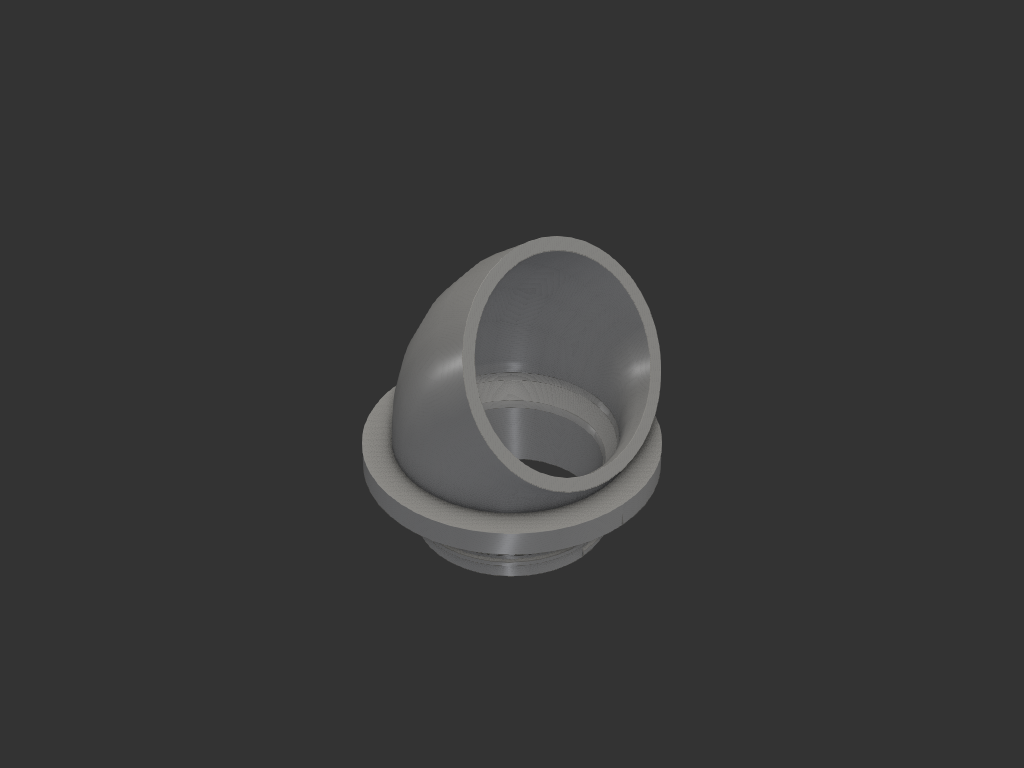
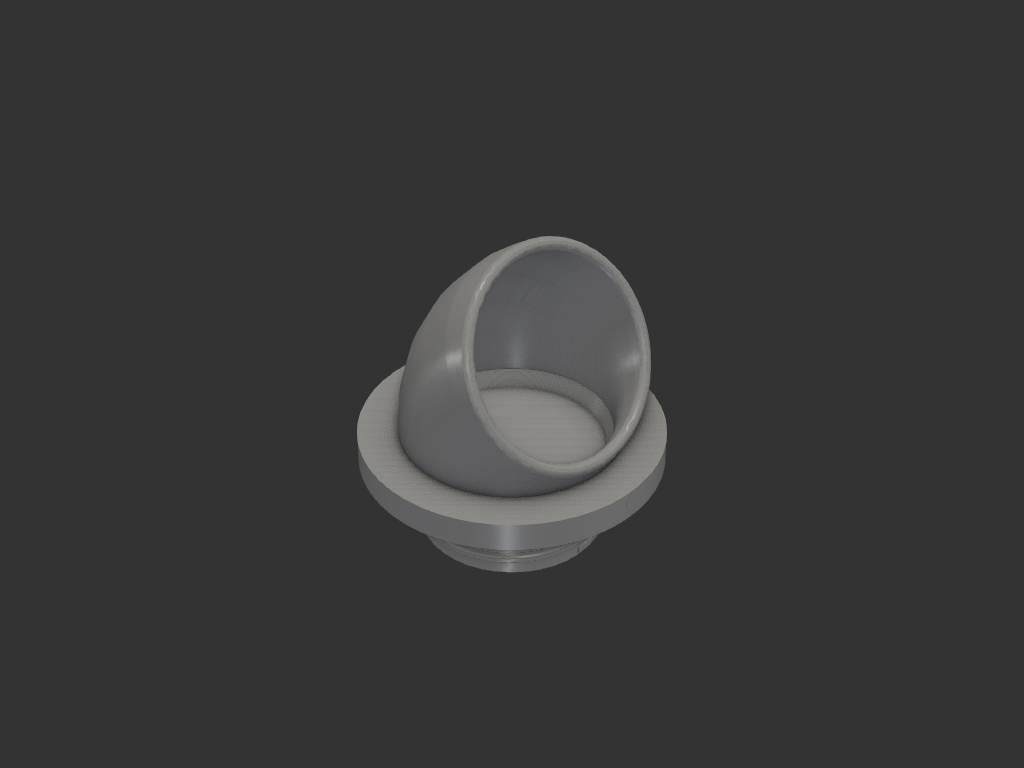
주방/식기세척기관_싱크대커버: 조임 강도 보강 + 출력 방향 확정
우선순위가 ① 조였을 때 안 상하기 ② 모양 이라는 기준으로 다시 봤다.

손으로 세게 조이면(2 N·m) 축력이 405N 이고, 그때 각 부위는:
  나사산 전단 1.34 MPa (22 배)
  플랜지 굽힘 2.36 MPa (21 배)
  칼라-플랜지 이음 9.2 MPa — **유일하게 한 자릿수**
칼라 인장은 세워 뽑으므로 층을 가로지른다. 층간 30 MPa 로 보면 이음이
직각 턱(Kt 3)일 때 15 MPa, 여유 2 배까지 떨어졌다.

→ ⌀31 → ⌀35 **45도 모따기**로 Kt 를 1.8 로 낮춰 여유 3.3 배.
   45도라 칼라를 아래로 두고 뽑을 때 자기지지이기도 하다.
   플랜지 ⌀46x4 → ⌀50x5, 나사 4 → 4.5 바퀴.
   오링은 모따기 바깥으로 밀려 내경 35x2.5 → 38x2.4.

출력 방향은 **칼라를 아래로**(조립 자세)로 확정. 눕히면 조임 인장이 층
안이 되어 유리하지만 ⌀33 보어가 처지고 나사산에 계단이 져서, 나사가
뭉개지면 조일 수가 없으니 우선순위 ①에 역행한다. 방향을 바꾸는 것보다
모따기가 훨씬 효과적이었다 (15 → 9.2 MPa).

build123d 함정 셋을 구현 메모에 추가:
- 헬릭스 스윕을 길게 하면 프레네 프레임이 비틀려 불린이 조용히 망가진다
- 나사산 뿌리가 모재 표면과 정확히 일치하면 접선 불린이 Null 을 뱉는다
- 릴리프를 원판으로 파면 칼라가 플랜지에서 끊긴다

Claude-Session: https://claude.ai/code/session_01ADtXUDQy3sb4YV2DNysYDr

Changed region(s): [[0.3438, 0.3438, 0.6562, 0.75], [0.5, 0.3125, 0.5938, 0.3438], [0.4688, 0.3438, 0.5, 0.4062]]

diff --git a/models/주방/식기세척기관_싱크대커버/cover.py b/models/주방/식기세척기관_싱크대커버/cover.py
@@ -19,6 +19,7 @@ from build123d import (
     BuildPart,
     BuildSketch,
     Circle,
+    GeomType,
     Helix,
     Polygon,
     Compound,
@@ -59,9 +60,12 @@ from models.주방.식기세척기관_싱크대커버.params import (
     NUT_OD,
     THREAD_DEPTH,
     THREAD_FIT,
+    THREAD_EMB,
+    THREAD_GAP,
     THREAD_LEN,
     THREAD_PITCH,
     ORING_DEPTH,
+    CHAM_D,
     ORING_MEAN,
     ORING_W,
 )
@@ -105,8 +109,13 @@ def build_cover():
         Cone(BORE_D / 2, ELBOW_BORE / 2, FLANGE_T, align=BOT, mode=Mode.SUBTRACT)
         revolve(prof_in, axis=axis, revolution_arc=ELBOW_TURN, mode=Mode.SUBTRACT)
 
-        # 오링 홈 — 플랜지 아랫면. 홈 안쪽이 ⌀35.9 라 구멍(31.5) 바깥
-        # 단단한 상판 위에 온전히 앉는다
+        # 칼라–플랜지 이음 모따기 — **가장 빠듯한 곳**이다.
+        # 바깥 원기둥에서 45도 원뿔을 빼면 모따기할 영역만 남는다
+        cham_h = (CHAM_D - COLLAR_OD) / 2
+        Cylinder(CHAM_D / 2, cham_h, align=BOT, mode=Mode.SUBTRACT)
+        Cone(COLLAR_OD / 2, CHAM_D / 2, cham_h, align=BOT, mode=Mode.ADD)
+
+        # 오링 홈 — 홈 안쪽이 ⌀35.9 라 구멍(31.5) 바깥 단단한 상판 위에 앉는다
         extrude(oring, ORING_DEPTH, mode=Mode.SUBTRACT)
 
         # 출구 나팔 — 호스가 꺾이는 지점의 날카로운 모서리를 없앤다.
@@ -126,24 +135,47 @@ def build_cover():
     return part.part
 
 
-THREAD_TOP = -COLLAR_PILOT                 # 나사 시작 (상판 바로 아래)
+THREAD_TOP = -(COLLAR_PILOT + THREAD_GAP)  # 나사 시작 (파일럿 아래)
 THREAD_BOT = THREAD_TOP - THREAD_LEN
 
 
+THREAD_SEG = 4.0        # 한 번에 쓸어내는 길이 상한
+
+
 def _thread(grow=0.0):
-    """칼라 나사산 한 줄. grow 를 주면 너트 쪽 여유 있는 짝이 된다.
+    """칼라 나사산. grow 를 주면 너트 쪽 여유 있는 짝이 된다.
 
     **빌더 밖에서** 만든다. 프로파일 평면의 x 축을 반지름 방향으로 고정해야
     골 깊이가 의도대로 나온다 — 자동으로 두면 축 방향이 반지름이 되어
     깊이가 pitch 만큼 깊어진다.
+
+    그리고 **짧게 끊어서 이어 붙인다.** 한 번에 5 바퀴를 쓸면 프레네 프레임이
+    비틀려 솔리드가 자기교차하고, 불린이 조용히 망가진다 (합친 부피가 칼라
+    단품보다 작아지는 식으로 드러났다). is_frenet=False 로 피할 수는 있지만
+    그러면 프로파일이 기울어 깊이가 0.2 → 0.38 로 틀어진다.
     """
     rmid = COLLAR_ROOT / 2 + THREAD_DEPTH / 2
-    path = Helix(pitch=THREAD_PITCH, height=THREAD_LEN, radius=rmid,
-                 center=(0, 0, THREAD_BOT))
-    pl = Plane(origin=path @ 0, x_dir=(1, 0, 0), z_dir=path % 0)
-    d, a, b = THREAD_DEPTH / 2 + grow, THREAD_PITCH * 0.35 + grow, THREAD_PITCH * 0.18 + grow
-    prof = pl * Polygon((-d, -a), (d, -b), (d, b), (-d, a), align=None)
-    return sweep(prof, path=path, is_frenet=True)
+    d = THREAD_DEPTH / 2 + grow
+    a = THREAD_PITCH * 0.35 + grow
+    b = THREAD_PITCH * 0.18 + grow
+    nseg = max(1, math.ceil(THREAD_LEN / THREAD_SEG))
+    seg = THREAD_LEN / nseg
+    out = None
+    for i in range(nseg):
+        path = Helix(pitch=THREAD_PITCH, height=seg, radius=rmid,
+                     center=(0, 0, THREAD_BOT + seg * i))
+        start = path @ 0
+        rad = Vector(start.X, start.Y, 0).normalized()
+        # 안쪽을 EMB 만큼 **칼라 속에 묻는다.** 뿌리가 칼라 표면과 정확히
+        # 일치하면 접선 불린이 되어 OCC 가 Null 을 뱉는다
+        prof = Plane(origin=start, x_dir=rad, z_dir=path % 0) * \
+            Polygon((-(d + THREAD_EMB), -a), (d, -b),
+                    (d, b), (-(d + THREAD_EMB), a), align=None)
+        # 각 토막은 각도 0 에서 시작하므로, 앞 토막이 돈 만큼 돌려 이어 붙인다
+        piece = sweep(prof, path=path, is_frenet=True).rotate(
+            Axis.Z, 360.0 * seg * i / THREAD_PITCH)
+        out = piece if out is None else out.fuse(piece)
+    return out.clean()
 
 
 def build_nut():

diff --git a/models/주방/식기세척기관_싱크대커버/export.py b/models/주방/식기세척기관_싱크대커버/export.py
@@ -7,14 +7,14 @@
   exports/assembly.step  조립 확인용 (출력물 아님)
 
 출력 방향:
-  cover  플랜지를 bed 에. 엘보가 60도까지 꺾이므로 **45도를 넘는 구간에
-         서포트가 필요하다** — 엘보 바깥 아랫면과 보어 천장 양쪽이다.
-         보어가 ⌀33 이라 안쪽 서포트도 손이 들어간다.
-         꺾임을 45도로 줄이면 서포트 없이 뽑을 수 있다 (높이도 32.6 으로 낮아짐)
+  cover  **칼라를 아래로** (조립 자세 그대로). 브림 8mm 이상 — 접지가 칼라 끝
+         링 78mm² 뿐이다. 서포트는 플랜지 아랫면 턱과 엘보 θ45~60° 구간(5.8mm).
+         "빌드플레이트 위에만" 으로 두면 보어 안에는 안 들어간다.
+         이음 모따기는 45° 라 자기지지. 엘리펀트 풋 보정 필요
   nut    바닥을 bed 에. 나사산이 수직이라 오버행 없음
 
 재료: PETG. 배수가 뜨거운 물이고(Tg 80도) 습한 자리다. PLA 는 Tg 60도라 부적합.
-오링: **내경 35 × 굵기 2.5 실리콘**. 홈이 그 치수로 파여 있다.
+오링: **내경 38 × 굵기 2.4 실리콘**. 홈이 그 치수로 파여 있다.
 """
 
 from pathlib import Path

diff --git a/models/주방/식기세척기관_싱크대커버/README.md b/models/주방/식기세척기관_싱크대커버/README.md
@@ -37,8 +37,8 @@
 
 | | 파츠 | 역할 | 무게 |
 |---|---|---|---|
-| ① | `cover` | 상판 위 플랜지(아랫면 오링 홈) + 엘보 + 구멍을 지나는 칼라 | 11.6 g |
-| ② | `nut` | 아래에서 칼라에 끼워 올려 조인다. 상판을 물고 오링을 누른다 | 5.5 g |
+| ① | `cover` | 상판 위 플랜지(아랫면 오링 홈) + 엘보 + 구멍을 지나는 칼라 | 16.3 g |
+| ② | `nut` | 아래에서 칼라에 끼워 올려 조인다. 상판을 물고 오링을 누른다 | 5.7 g |
 
 조립:
 
@@ -97,27 +97,60 @@
 | 칼라 바깥 | ⌀**31.0** | 구멍 31.5 에 한쪽 0.25 |
 | 칼라 보어 | ⌀**28.5** | 22+6.35 최소원 28.35, 굵은부분 25.5 |
 | 칼라 벽 | **1.25** | 여기가 전부다 |
-| 칼라 길이 | 11 (파일럿 2 + 나사 8) | 파일럿 ⌀31.0 이 구멍 안에서 중심을 잡는다 |
-| 나사 | 피치 2.0, 깊이 **0.4**, 골 ⌀30.2 | 골에서 남는 살 0.85. 4 바퀴 조임 |
+| 칼라 길이 | 13 (파일럿 2 + 빈 1 + 나사 9) | 파일럿 ⌀31.0 이 구멍 안에서 중심을 잡는다 |
+| 나사 | 피치 2.0, 깊이 **0.4**, 골 ⌀30.2 | 골에서 남는 살 0.85. **4.5 바퀴** 조임 |
 | 나사 여유 | 0.2 (반지름) | |
-| 플랜지 | ⌀46 × 4 | |
-| 오링 홈 | 중심 ⌀37.5, 폭 3.25, 깊이 1.90 | **내경 35 × 굵기 2.5**, 눌림 24% |
+| 플랜지 | ⌀**50** × **5** | 오링을 이음 모따기 바깥으로 밀어내며 커졌다 |
+| 이음 모따기 | ⌀31 → ⌀35, **45°** | 가장 빠듯한 곳. 집중계수 3 → 1.8 |
+| 오링 홈 | 중심 ⌀40.4, 폭 3.12, 깊이 1.82 | **내경 38 × 굵기 2.4**, 눌림 24% |
 | 엘보 | R 22, 60°, 보어 ⌀33, 벽 2 | |
 | 출구 나팔 | R 2.5 | 꺾이는 지점의 날카로운 모서리를 없앤다 |
 | 너트 | ⌀42 × 9, 홈 8 개 | 손으로 돌린다 |
 | 상판 위 높이 | **38.8** | |
 
-오링 홈 안쪽 가장자리가 ⌀35.9 라 구멍(31.5) 바깥 **단단한 상판 위에** 온전히
-앉는다. 조임은 나사라서 상판 두께 편차를 그대로 흡수한다.
+오링 홈 안쪽 가장자리가 ⌀37.3 이라 구멍(31.5) 바깥 **단단한 상판 위에** 온전히
+앉는다. 홈 안쪽 벽 1.14mm, 바깥 테두리 3.24mm. 조임은 나사라서 상판 두께 편차를 그대로 흡수한다.
 
 ## 계산
 
+### 조였을 때 어디가 먼저 상하나
+
+⌀42 너트를 손으로 조이면 축력이 이만큼 걸린다 (피치 2.0, 마찰 0.3):
+
+| 토크 | 축력 |
+|---|---|
+| 0.5 N·m | 101 N |
+| 1.0 N·m | 202 N |
+| 2.0 N·m (손으로 세게) | **405 N** |
+| 3.0 N·m | 607 N |
+
+축력 400N 에서:
+
+| 부위 | 응력 | 여유 |
+|---|---|---|
+| 나사산 전단 (4.5 바퀴, 299 mm²) | 1.34 MPa | 22 배 |
+| 플랜지 굽힘 (두께 5, 팔 2.70) | 2.36 MPa | 21 배 |
+| 칼라 인장 (단면 78 mm²) | 5.1 MPa | |
+| **칼라–플랜지 이음** (모따기 Kt 1.8) | **9.2 MPa** | **3.3 배** ← 여기 |
+
+칼라 인장은 **층을 가로지르는 방향**이라 층간 강도 ~30 MPa 로 본다.
+이음이 유일하게 한 자릿수 여유인 곳이다.
+
+**직각 턱이면 집중계수가 3 이라 15 MPa, 여유 2 배로 떨어진다.**
+그래서 ⌀31 → ⌀35 **45° 모따기**를 넣어 1.8 로 낮췄다. 45° 라 칼라를
+아래로 두고 뽑을 때 **자기지지**이기도 하다.
+
+필렛을 쓰려 했으나 실패했다 — 릴리프 안쪽이 칼라와 정확히 접해 모서리가
+생기지 않아 필렛이 안 걸렸고, 깔때기와 겹쳐 살을 0.6mm 로 깎기까지 했다.
+
 ### 나사산이 얕아도 되는가
 
-조임 하중은 오링을 누르는 60N 정도다. 칼라 골지름 30.2, 보어 28.5 →
-인장 단면 π x 29.35 x 0.85 = 78 mm² → **0.77 MPa**. PETG 의 1/60 이다.
-나사산 전단도 4 바퀴면 여유가 두 자릿수다. **강도는 쟁점이 아니고,
-0.4mm 를 출력으로 살려낼 수 있느냐가 쟁점이다** (0.4 노즐 한 압출폭).
+0.4mm 깊이로도 전단 여유가 22 배다. **강도는 쟁점이 아니고, 0.4mm 를
+출력으로 살려낼 수 있느냐가 쟁점이다** (0.4 노즐 한 압출폭).
+
+조일 때 칼라가 안으로 찌그러져 나사가 넘어갈까 걱정할 수 있는데,
+**관을 먼저 끼우면 호스가 칼라를 안에서 받쳐준다.**
+
 
 ### 물이 어디서 막히는가
 
@@ -128,16 +161,46 @@
 
 ## 출력
 
+**우선순위: ① 조였을 때 안 상하기 ② 모양. 서포트 최소화는 그다음.**
+
 | 파츠 | 방향 | 이유 |
 |---|---|---|
-| `cover` | 플랜지를 bed 에 | 엘보가 60°까지 꺾여 **45°를 넘는 구간에 서포트가 필요하다** — 엘보 바깥 아랫면과 보어 천장 양쪽. 보어가 ⌀33 이라 안쪽 서포트도 손이 들어간다 |
+| `cover` | **칼라를 아래로** (조립 자세 그대로) | 아래 참고 |
 | `nut` | 바닥을 bed 에 | 나사산이 수직이라 오버행 없음 |
 
-꺾임을 45°로 줄이면 서포트 없이 뽑을 수 있고 높이도 32.6 으로 낮아진다.
-다만 출구가 45° 위를 보게 되어 물이 들어가기 쉬워진다.
+### 왜 칼라를 아래로인가
 
-**재료 PETG.** 배수가 뜨거운 물이고(Tg 80°C) 습한 자리다. PLA 는 Tg 60°C 라
-부적합하다. 출력 합계 약 **17 g**.
+이 부품은 **칼라와 엘보가 반대 방향으로 뻗어** 어느 면을 bed 에 붙여도
+반대쪽이 뜬다. 완벽한 방향이 없다.
+
+눕혀 뽑으면 조임 인장이 층 **안**이 되어 강도는 유리하다. 그러나
+⌀33 엘보 보어와 ⌀28.5 칼라 보어가 수평이 되어 처지고 나사산에 계단이
+진다. **나사가 뭉개지면 조일 수가 없으므로 우선순위 ①에도 역행한다.**
+
+세워 뽑으면 인장이 층을 가로지르지만, **모따기를 넣어 여유 3.3 배**를
+확보했다. 방향을 바꾸는 것보다 모따기가 훨씬 효과적이다 (15 → 9.2 MPa).
+
+보이는 면(플랜지 윗면, 엘보 바깥)에는 서포트가 안 닿는다.
+
+### 서포트가 필요한 곳
+
+| 위치 | 내용 |
+|---|---|
+| 플랜지 아랫면 | ⌀35 → ⌀50 턱, **7.5mm 수평 오버행**. 피할 방법이 없다 — 구멍이 ⌀31 로 묶고 오링이 ⌀50 을 요구한다 |
+| 엘보 θ 45~60° | 호 길이 **5.8mm** 뿐 |
+| 이음 모따기 | **불필요** — 45° 라 자기지지 |
+
+**실링면은 서포트를 안 탄다.** 오링 홈은 폭 3.12mm 짜리 천장이라
+슬라이서가 브리지로 넘어간다. 서포트는 홈 바깥 테두리(⌀43.5~50)에만
+닿는데 거기는 그냥 상판에 얹히는 자리다.
+
+슬라이서에서 **"서포트: 빌드플레이트 위에만"** 으로 두면 보어 안에도
+안 들어간다. 엘보 보어 천장은 출구에서 손이 닿는다.
+
+접지면이 칼라 끝 링 **78 mm²** 뿐이므로 **브림 8mm 이상**. 무게중심이
+x≈6mm 이고 접지 폭이 30mm 라 쓰러지지는 않는다. 나사 아래 1mm 가 민짜
+구간이라 **엘리펀트 풋 보정**을 넣어야 너트가 물린다.
+
 
 ### 슬라이서
 
@@ -153,13 +216,22 @@
 |---|---|
 | 8 자 통로 (22 / 6.35 각각) | 배수 호스 끝이 ⌀25.5 라 통과를 못 한다 |
 | 두 통로 사이에 벽 | 1.0mm 만 넣어도 외접이 29.95 가 되어 바깥벽 자리가 없다 |
-| 칼라에 오링 홈 | 벽이 1.25 라 홈(1.9 깊이)을 파면 뚫린다 |
+| 칼라에 오링 홈 | 벽이 1.25 라 홈(1.8 깊이)을 파면 뚫린다 |
+| 이음에 필렛 | 릴리프 안쪽이 칼라와 정확히 접해 모서리가 안 생기고, 깔때기와 겹쳐 살을 0.6mm 로 깎는다. 45° 모따기로 대체 |
+| 눕혀서 출력 | 조임 인장은 유리하지만 ⌀33 보어가 처지고 나사산에 계단이 진다 |
 | 칼라 바깥 반지름 실링 | 홈 바닥이 ⌀28.3 이 되어 보어 28.5 를 침범한다 |
 | 구멍 안에서 관 기울이기 | 단면이 28.5/cos θ 로 커져 10도에 31.4 |
 | 스냅(미늘) 고정 | 상판이 1mm 안팎으로 불확실해 고정 위치를 못 정한다. 나사는 흡수한다 |
 
 ## 구현 메모
 
+- 헬릭스 스윕은 **짧게 끊어 이어 붙인다.** 한 번에 5 바퀴를 쓸면 프레네
+  프레임이 비틀려 솔리드가 자기교차하고, 불린이 **조용히 망가진다** —
+  합친 부피가 칼라 단품보다 작아지는 식으로 드러났다. `is_frenet=False` 로
+  피할 수는 있지만 프로파일이 기울어 깊이가 0.2 → 0.38 로 틀어진다
+- 나사산 뿌리를 **모재 속에 조금 묻는다**(0.2). 뿌리가 모재 표면과 정확히
+  일치하면 접선 불린이 되어 OCC 가 Null 을 뱉는다
+- 릴리프를 **원판으로 파면 안 된다.** 칼라가 플랜지에서 끊긴다. 고리로 판다
 - **`revolve` 에 스케치를 명시적으로 넘겨도 pending 에서 안 빠진다.**
   뒤따르는 `loft` 가 그 면까지 집어 형상이 세 조각으로 끊겼다.
   프로파일은 **빌더 컨텍스트 밖에서** 만들어 넘긴다
@@ -171,6 +243,7 @@
 
 ## 상태
 
-- **iter_006 — 현재.** 2 파츠(커버 / 너트), 나사 조임, 오링 실링. 출력 대기
+- **iter_007 — 현재.** 2 파츠(커버 / 너트). 이음 45° 모따기 + 플랜지 ⌀50×5 +
+  나사 4.5 바퀴로 조임 강도 보강. 출력 대기
 - 출력 후 확인할 것: 나사 0.4 깊이가 살아나는지, 굵은 부분(⌀25.5)이 엘보를
   지나는지, 오링 눌림이 충분한지
